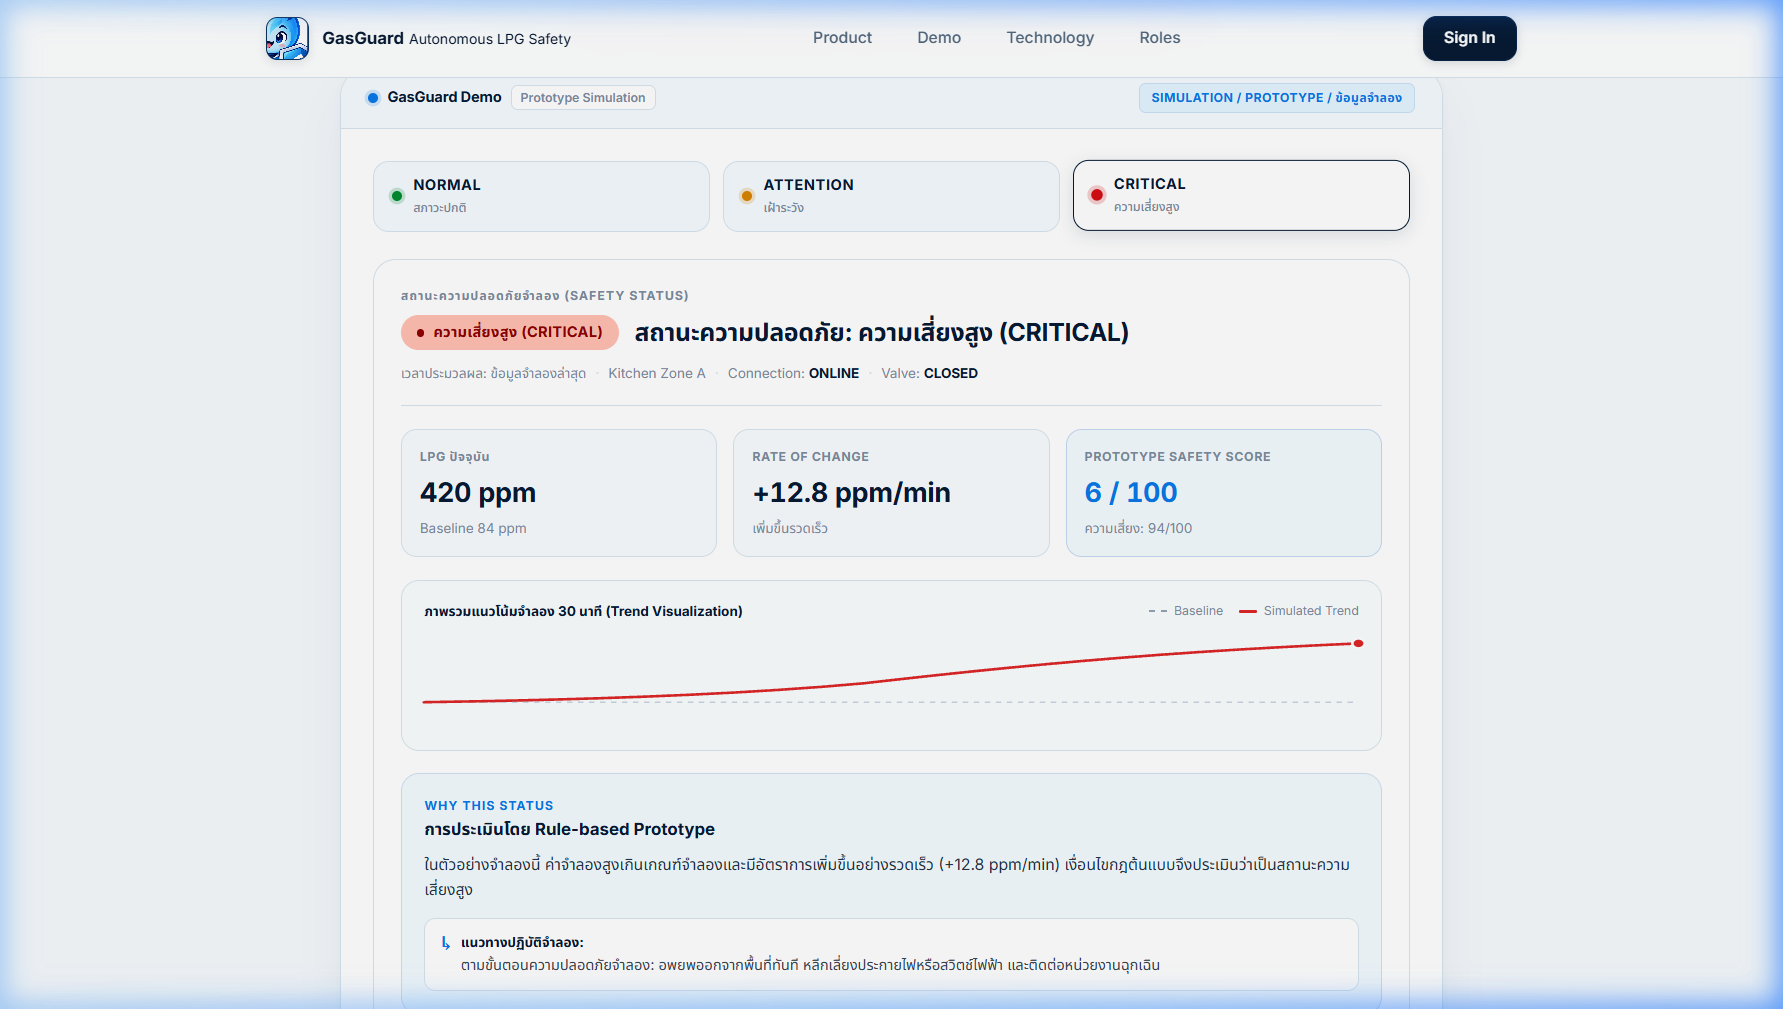
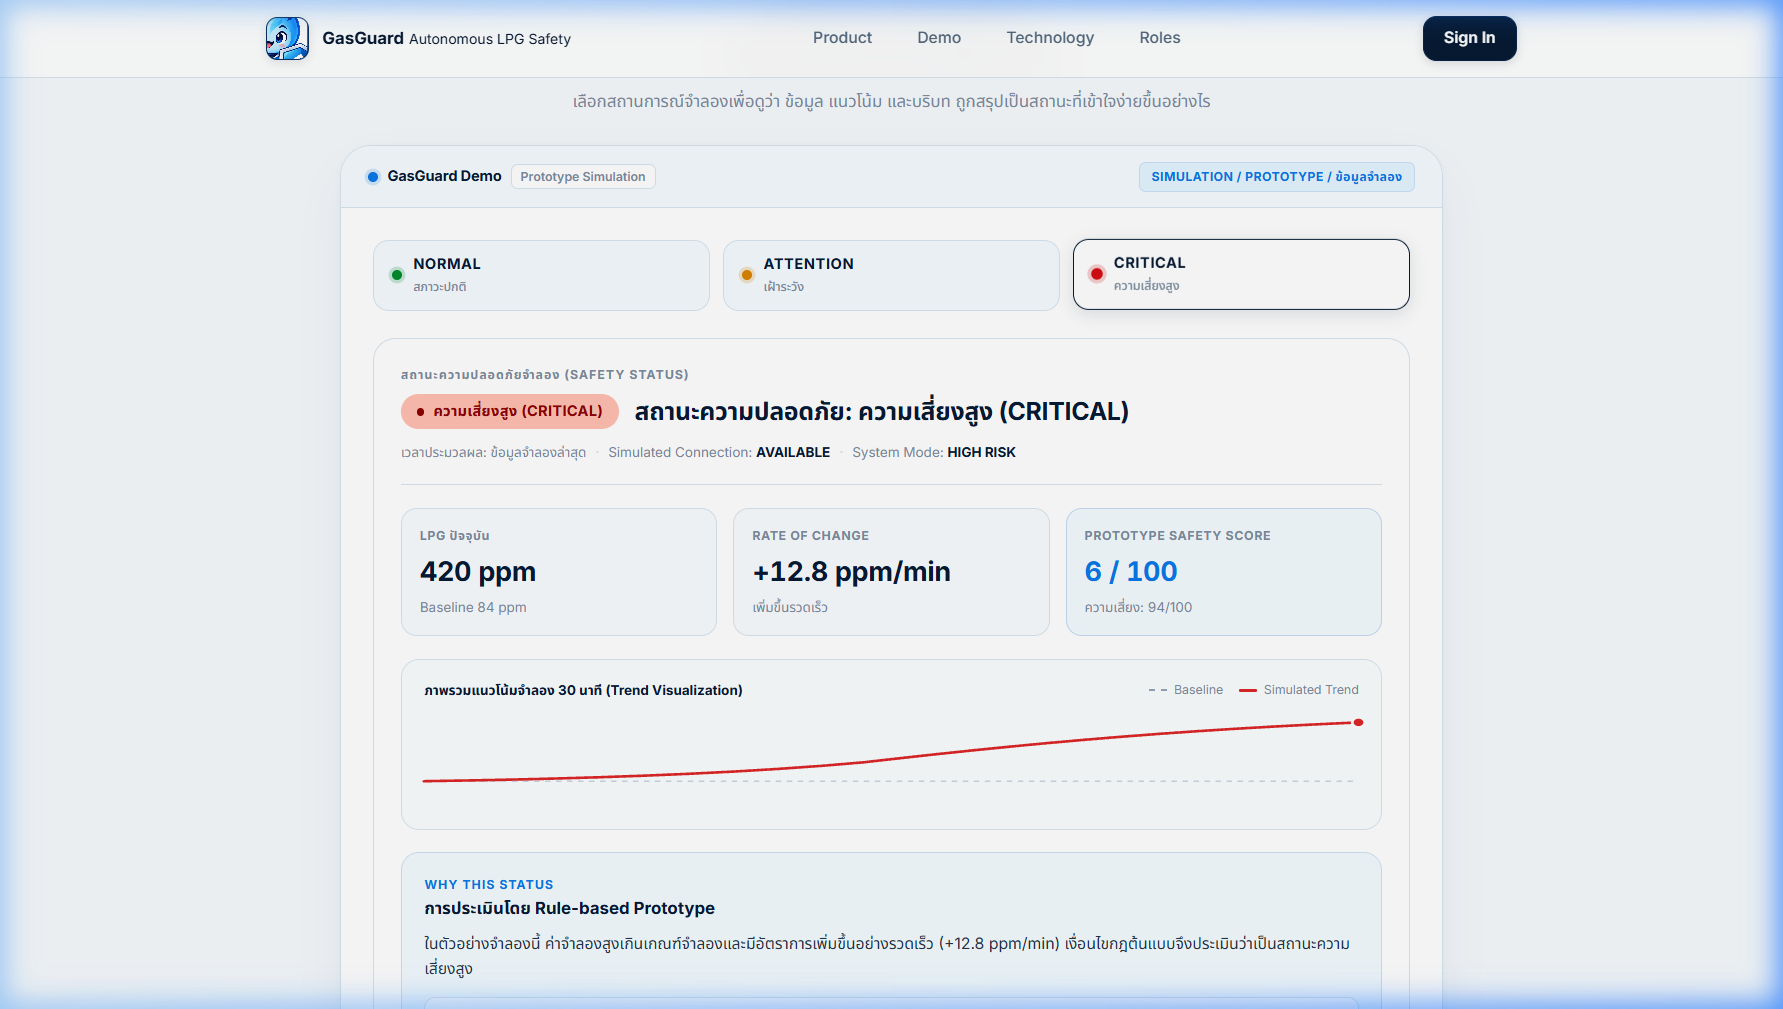
fix: align interactive demo with prototype capabilities

diff --git a/js/public-demo.js b/js/public-demo.js
@@ -11,7 +11,7 @@
   const SCENARIOS = Object.freeze({
     NORMAL: Object.freeze({
       id: 'NORMAL',
-      label: 'สภาวะปกติ (Safe)',
+      label: 'ปกติ (Normal)',
       safety: 'safe',
       gasPpm: 84,
       baseline: 84,
@@ -19,16 +19,16 @@
       confidence: 95,
       variance: 2.1,
       exposure: 120,
-      valve: 'OPEN',
-      valveText: 'เปิดปกติ (Open)',
-      connection: 'ONLINE',
-      connectionText: 'ออนไลน์ (Online)',
+      systemMode: 'MONITORING',
+      systemModeText: 'เฝ้าระวังตามปกติ',
+      connection: 'AVAILABLE',
+      connectionText: 'การเชื่อมต่อจำลอง (Available)',
       safetyScore: 92,
       riskScore: 8,
       statusLabel: 'ปกติ (NORMAL)',
       badge: SIMULATION_BADGE,
       summary: 'ในตัวอย่างจำลองนี้ ค่าค่อนข้างคงที่และใกล้รูปแบบอ้างอิง ระบบกฎต้นแบบจึงจัดสถานะเป็นปกติ',
-      action: 'สภาวะแวดล้อมจำลองปกติ ระบบเฝ้าระวังทำงานและส่งข้อมูลตามรอบปกติ ไม่จำเป็นต้องดำเนินการใดๆ',
+      action: 'ตัวอย่างข้อความระบบ: ค่าอยู่ในเกณฑ์จำลองปกติ ติดตามสถานะต่อเนื่องตามรอบการทำงาน',
       trendDesc: 'แนวโน้มจำลอง 30 นาที: ค่าคงที่ใกล้เคียง baseline 84 ppm (+0.2 ppm/min)',
       trendPath: 'M 0 64 C 120 63, 240 65, 360 62 C 480 60, 560 64, 680 63',
       trendPoint: { cx: 680, cy: 63 }
@@ -43,16 +43,16 @@
       confidence: 88,
       variance: 14.8,
       exposure: 740,
-      valve: 'CLOSED',
-      valveText: 'ปิดวาล์วอัตโนมัติ (Closed)',
-      connection: 'ONLINE',
-      connectionText: 'ออนไลน์ (Online)',
+      systemMode: 'ATTENTION',
+      systemModeText: 'ติดตามสถานการณ์',
+      connection: 'AVAILABLE',
+      connectionText: 'การเชื่อมต่อจำลอง (Available)',
       safetyScore: 58,
       riskScore: 42,
       statusLabel: 'เฝ้าระวัง (ATTENTION)',
       badge: SIMULATION_BADGE,
       summary: 'ในตัวอย่างจำลองนี้ ค่ามีอัตราการเพิ่มสูงขึ้นกว่าปกติ (+4.5 ppm/min) ระบบกฎต้นแบบจึงจัดให้อยู่ในระดับเฝ้าระวังเพื่อติดตามรูปแบบการเปลี่ยนแปลง',
-      action: 'ติดตามแนวโน้มค่าอย่างต่อเนื่อง ตรวจสอบบริเวณครัวหรือถังแก๊ส และระบายอากาศหากมีข้อสงสัย',
+      action: 'ตัวอย่างข้อความระบบ: แนะนำให้ผู้ใช้สังเกตการณ์ ตรวจสอบบริเวณใช้งาน และระบายอากาศหากมีข้อสงสัย',
       trendDesc: 'แนวโน้มจำลอง 30 นาที: ค่ามีแนวโน้มเพิ่มขึ้นต่อเนื่อง (+4.5 ppm/min) สู่ 185 ppm',
       trendPath: 'M 0 64 C 140 62, 280 54, 420 38 C 520 28, 600 24, 680 20',
       trendPoint: { cx: 680, cy: 20 }
@@ -67,16 +67,16 @@
       confidence: 94,
       variance: 38.6,
       exposure: 1850,
-      valve: 'CLOSED',
-      valveText: 'ปิดวาล์วฉุกเฉิน (Closed)',
-      connection: 'ONLINE',
-      connectionText: 'ออนไลน์ (Online)',
+      systemMode: 'HIGH RISK',
+      systemModeText: 'สถานะความเสี่ยงสูง',
+      connection: 'AVAILABLE',
+      connectionText: 'การเชื่อมต่อจำลอง (Available)',
       safetyScore: 6,
       riskScore: 94,
       statusLabel: 'ความเสี่ยงสูง (CRITICAL)',
       badge: SIMULATION_BADGE,
       summary: 'ในตัวอย่างจำลองนี้ ค่าจำลองสูงเกินเกณฑ์จำลองและมีอัตราการเพิ่มขึ้นอย่างรวดเร็ว (+12.8 ppm/min) เงื่อนไขกฎต้นแบบจึงประเมินว่าเป็นสถานะความเสี่ยงสูง',
-      action: 'ตามขั้นตอนความปลอดภัยจำลอง: อพยพออกจากพื้นที่ทันที หลีกเลี่ยงประกายไฟหรือสวิตช์ไฟฟ้า และติดต่อหน่วยงานฉุกเฉิน',
+      action: 'ตัวอย่างข้อความระบบ: แจ้งเตือนระดับความเสี่ยงสูง แนะนำให้อพยพออกจากพื้นที่และติดต่อหน่วยงานฉุกเฉิน',
       trendDesc: 'แนวโน้มจำลอง 30 นาที: ค่าพุ่งสูงขึ้นอย่างรวดเร็ว (+12.8 ppm/min) แตะระดับ 420 ppm',
       trendPath: 'M 0 64 C 100 62, 220 58, 320 46 C 440 28, 540 16, 680 8',
       trendPoint: { cx: 680, cy: 8 }

diff --git a/index.html b/index.html
@@ -519,11 +519,9 @@
                   <div class="demo-status-meta">
                     <span id="public-demo-time-label">เวลาประมวลผล: ข้อมูลจำลองล่าสุด</span>
                     <span class="meta-divider" aria-hidden="true">·</span>
-                    <span>Kitchen Zone A</span>
+                    <span>Simulated Connection: <strong id="public-demo-connection">AVAILABLE</strong></span>
                     <span class="meta-divider" aria-hidden="true">·</span>
-                    <span>Connection: <strong id="public-demo-connection">ONLINE</strong></span>
-                    <span class="meta-divider" aria-hidden="true">·</span>
-                    <span>Valve: <strong id="public-demo-valve">OPEN</strong></span>
+                    <span>System Mode: <strong id="public-demo-system-mode">MONITORING</strong></span>
                   </div>
                 </div>
 
@@ -585,8 +583,8 @@
                   <div class="why-action-box">
                     <span class="action-icon" aria-hidden="true">↳</span>
                     <div class="action-content">
-                      <strong>แนวทางปฏิบัติจำลอง:</strong>
-                      <p id="public-demo-action">สภาวะแวดล้อมจำลองปกติ ระบบเฝ้าระวังทำงานและส่งข้อมูลตามรอบปกติ ไม่จำเป็นต้องดำเนินการใดๆ</p>
+                      <strong>ตัวอย่างข้อความตอบสนองของ Prototype:</strong>
+                      <p id="public-demo-action">ตัวอย่างข้อความระบบ: ค่าอยู่ในเกณฑ์จำลองปกติ ติดตามสถานะต่อเนื่องตามรอบการทำงาน</p>
                     </div>
                   </div>
                 </div>

diff --git a/tests/public-landing.test.js b/tests/public-landing.test.js
@@ -15,22 +15,24 @@ const normal = publicDemo.getScenario('NORMAL');
 assert.equal(normal.id, 'NORMAL');
 assert.equal(normal.safety, 'safe');
 assert.equal(normal.gasPpm, 84);
-assert.equal(normal.valve, 'OPEN');
-assert.equal(normal.connection, 'ONLINE');
+assert.equal(normal.systemMode, 'MONITORING');
+assert.equal(normal.connection, 'AVAILABLE');
 assert.ok(normal.badge.includes('SIMULATION'));
 
 const attention = publicDemo.getScenario('ATTENTION');
 assert.equal(attention.id, 'ATTENTION');
 assert.equal(attention.safety, 'attention');
 assert.equal(attention.gasPpm, 185);
-assert.equal(attention.valve, 'CLOSED');
+assert.equal(attention.systemMode, 'ATTENTION');
+assert.equal(attention.connection, 'AVAILABLE');
 assert.ok(attention.badge.includes('SIMULATION'));
 
 const critical = publicDemo.getScenario('CRITICAL');
 assert.equal(critical.id, 'CRITICAL');
 assert.equal(critical.safety, 'critical');
 assert.equal(critical.gasPpm, 420);
-assert.equal(critical.valve, 'CLOSED');
+assert.equal(critical.systemMode, 'HIGH RISK');
+assert.equal(critical.connection, 'AVAILABLE');
 assert.ok(critical.badge.includes('SIMULATION'));
 
 // Trend paths and accessible descriptions

diff --git a/js/app.js b/js/app.js
@@ -233,7 +233,8 @@
     if($('public-demo-rate-note'))$('public-demo-rate-note').textContent=scenario.safety==='safe'?'แนวโน้มคงที่':(scenario.safety==='attention'?'เพิ่มขึ้นปานกลาง':'เพิ่มขึ้นรวดเร็ว');
     if($('public-demo-score'))$('public-demo-score').textContent=`${scenario.safetyScore} / 100`;
     if($('public-demo-risk'))$('public-demo-risk').textContent=`ความเสี่ยง: ${scenario.riskScore}/100`;
-    if($('public-demo-valve'))$('public-demo-valve').textContent=scenario.valve;
+    if($('public-demo-system-mode'))$('public-demo-system-mode').textContent=scenario.systemMode;
+    if($('public-demo-valve'))$('public-demo-valve').textContent=scenario.systemMode;
     if($('public-demo-connection'))$('public-demo-connection').textContent=scenario.connection;
     if($('public-demo-summary'))$('public-demo-summary').textContent=scenario.summary;
     if($('public-demo-action'))$('public-demo-action').textContent=scenario.action;

diff --git a/docs/screenshots/sprint-03/manifest.md b/docs/screenshots/sprint-03/manifest.md
@@ -15,12 +15,12 @@
 
 | Screenshot Filename | Viewport | Scenario | Purpose | Prototype Disclosure Status | Notes |
 | :--- | :--- | :--- | :--- | :--- | :--- |
-| `desktop-1440px-normal.png` | 1440 × 900 (Desktop) | NORMAL | Verify dominant product window stage in NORMAL state (84 ppm, baseline 84 ppm, rate +0.2 ppm/min, score 92/100, valve OPEN, ONLINE). | Clearly visible (`SIMULATION / PROTOTYPE / ข้อมูลจำลอง`, `Prototype Simulation`, bottom disclosure notice). | Calm blue tone, baseline-aligned trend line, rule-based prototype explanation. |
-| `desktop-1440px-attention.png` | 1440 × 900 (Desktop) | ATTENTION | Verify deterministic transition to ATTENTION state (185 ppm, rate +4.5 ppm/min, score 58/100, valve CLOSED, ONLINE). | Clearly visible (`SIMULATION / PROTOTYPE / ข้อมูลจำลอง`, `Prototype Simulation`, bottom disclosure notice). | Amber status beacon, rising curve trend visual, rate-of-rise observation explanation without leak claims. |
-| `desktop-1440px-critical.png` | 1440 × 900 (Desktop) | CRITICAL | Verify deterministic transition to CRITICAL state (420 ppm, rate +12.8 ppm/min, score 6/100, valve CLOSED, ONLINE). | Clearly visible (`SIMULATION / PROTOTYPE / ข้อมูลจำลอง`, `Prototype Simulation`, bottom disclosure notice). | Coral/red beacon, steep rising curve, simulation evacuation action without certified threshold claims. |
+| `desktop-1440px-normal.png` | 1440 × 900 (Desktop) | NORMAL | Verify dominant product window stage in NORMAL state (84 ppm, baseline 84 ppm, rate +0.2 ppm/min, score 92/100, System Mode: MONITORING, Simulated Connection: AVAILABLE). | Clearly visible (`SIMULATION / PROTOTYPE / ข้อมูลจำลอง`, `Prototype Simulation`, bottom disclosure notice). | Calm blue tone, baseline-aligned trend line, rule-based prototype explanation, no valve claims. |
+| `desktop-1440px-attention.png` | 1440 × 900 (Desktop) | ATTENTION | Verify deterministic transition to ATTENTION state (185 ppm, rate +4.5 ppm/min, score 58/100, System Mode: ATTENTION, Simulated Connection: AVAILABLE). | Clearly visible (`SIMULATION / PROTOTYPE / ข้อมูลจำลอง`, `Prototype Simulation`, bottom disclosure notice). | Amber status beacon, rising curve trend visual, rate-of-rise observation explanation without leak diagnosis or valve control claims. |
+| `desktop-1440px-critical.png` | 1440 × 900 (Desktop) | CRITICAL | Verify deterministic transition to CRITICAL state (420 ppm, rate +12.8 ppm/min, score 6/100, System Mode: HIGH RISK, Simulated Connection: AVAILABLE). | Clearly visible (`SIMULATION / PROTOTYPE / ข้อมูลจำลอง`, `Prototype Simulation`, bottom disclosure notice). | Coral/red beacon, steep rising curve, prototype response message without certified threshold or automated valve control claims. |
 | `tablet-768px-demo.png` | 768 × 1024 (Tablet) | NORMAL | Verify tablet responsive layout, segmented control touch ergonomics, and 3-column metric card scaling. | Clearly visible (`SIMULATION / PROTOTYPE / ข้อมูลจำลอง`, `Prototype Simulation`, bottom disclosure notice). | Clean typography, no overflow, smooth SVG trend rendering. |
 | `mobile-390px-demo.png` | 390 × 844 (Mobile) | NORMAL | Verify mobile vertical hierarchy (Header → Segmented Tabs → Status Hero → Metrics Strip → Trend → Explanation → Disclosure). | Clearly visible (`SIMULATION / PROTOTYPE / ข้อมูลจำลอง`, `Prototype Simulation`, bottom disclosure notice). | Touch-friendly tab buttons (>= 48px), stacked single-column metrics, 0px horizontal overflow. |
-| `mobile-390px-critical.png` | 390 × 844 (Mobile) | CRITICAL | Verify mobile state transition in high-risk simulated state. | Clearly visible (`SIMULATION / PROTOTYPE / ข้อมูลจำลอง`, `Prototype Simulation`, bottom disclosure notice). | Legible critical explanation, clear callout, accessible contrast. |
+| `mobile-390px-critical.png` | 390 × 844 (Mobile) | CRITICAL | Verify mobile state transition in high-risk simulated state. | Clearly visible (`SIMULATION / PROTOTYPE / ข้อมูลจำลอง`, `Prototype Simulation`, bottom disclosure notice). | Legible critical explanation, clear callout, accessible contrast, prototype response wording. |
 
 ---
 
